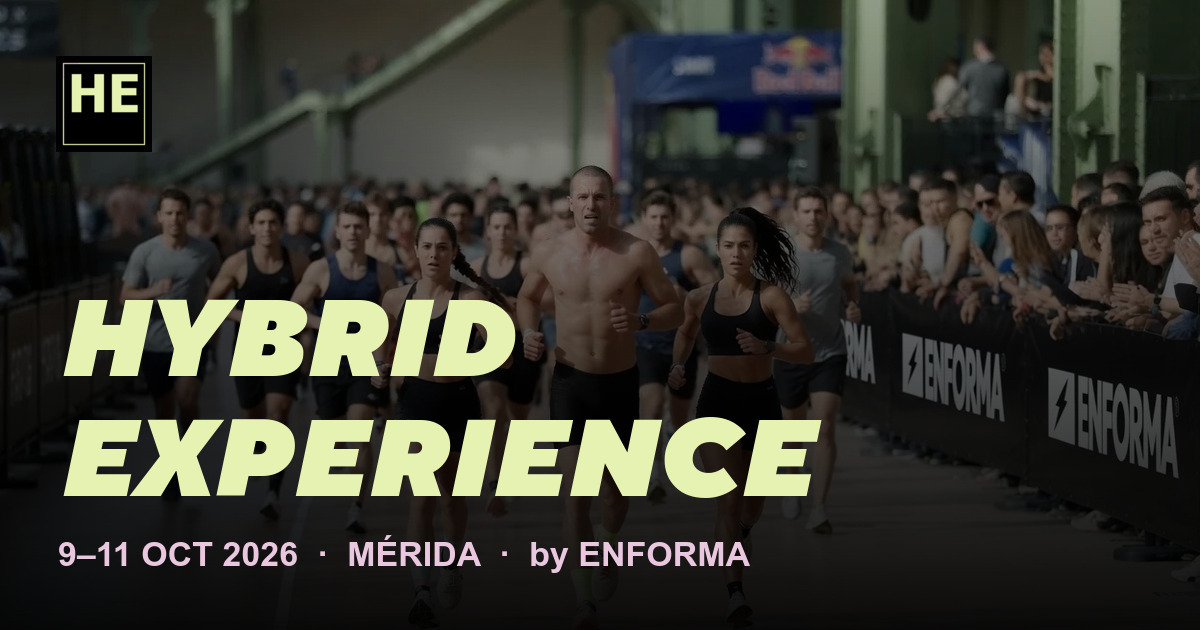
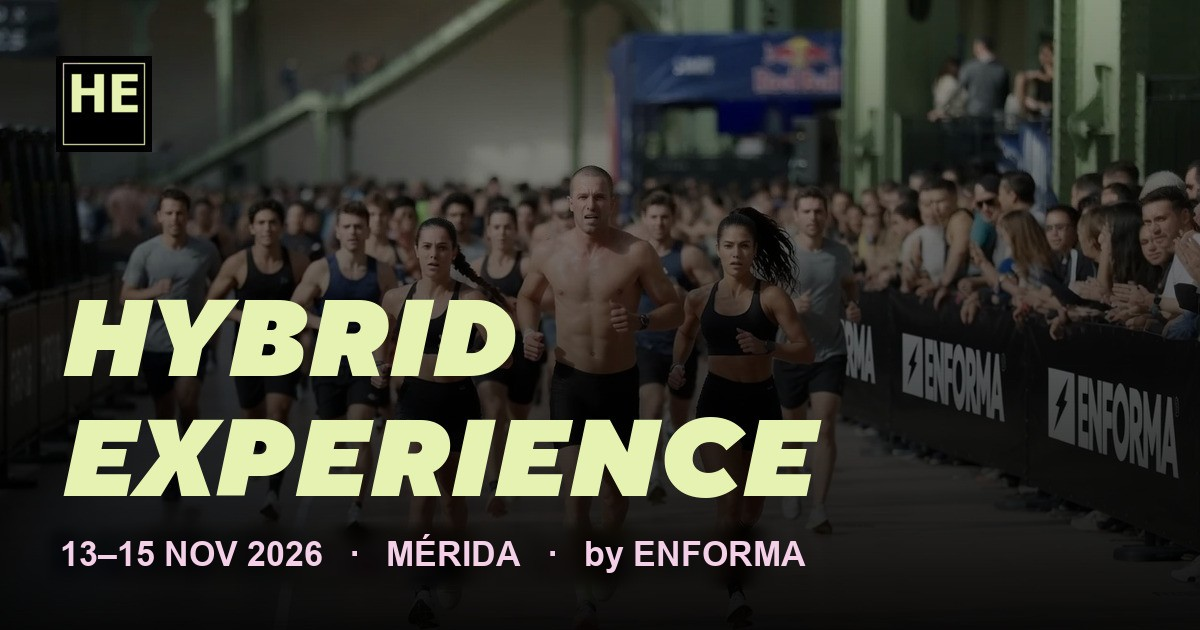
fix(og): correct event date to 13–15 NOV 2026 in social image and PWA manifest
Bust the og:image URL so WhatsApp/Facebook re-fetch the preview.

Changed region(s): [[0.0308, 0.8444, 0.6783, 0.9048]]

diff --git a/index.html b/index.html
@@ -18,14 +18,14 @@
     <meta property="og:description" content="Vive HYBRID EXPERIENCE del 13 al 15 de noviembre de 2026 en Mérida. Compite en Individual, Dobles o Relay, empieza con ½ Hybrid, o compra tu acceso como público." />
     <meta property="og:type" content="website" />
     <meta property="og:url" content="https://hybrid-experience.enforma.mx/" />
-    <meta property="og:image" content="https://hybrid-experience.enforma.mx/og/hybrid-experience-social.jpg" />
+    <meta property="og:image" content="https://hybrid-experience.enforma.mx/og/hybrid-experience-social.jpg?v=20260928" />
     <meta property="og:image:width" content="1200" />
     <meta property="og:image:height" content="630" />
     <meta property="og:image:alt" content="HYBRID EXPERIENCE 2026 by ENFORMA" />
     <meta name="twitter:card" content="summary" />
     <meta name="twitter:title" content="HYBRID EXPERIENCE 2026 en Mérida | ENFORMA Sports Society" />
     <meta name="twitter:description" content="Vive HYBRID EXPERIENCE del 13 al 15 de noviembre de 2026 en Mérida. Compite en Individual, Dobles o Relay, empieza con ½ Hybrid, o compra tu acceso como público." />
-    <meta name="twitter:image" content="https://hybrid-experience.enforma.mx/og/hybrid-experience-social.jpg" />
+    <meta name="twitter:image" content="https://hybrid-experience.enforma.mx/og/hybrid-experience-social.jpg?v=20260928" />
 
     <link rel="preconnect" href="https://fonts.googleapis.com" />
     <link rel="preconnect" href="https://fonts.gstatic.com" crossorigin />

diff --git a/vite.config.ts b/vite.config.ts
@@ -12,7 +12,7 @@ export default defineConfig({
         name: 'The Hybrid Experience',
         short_name: 'Hybrid',
         description:
-          'Vive HYBRID EXPERIENCE del 9 al 11 de octubre de 2026 en Mérida. Compite en Individual, Dobles o Relay, empieza con ½ Hybrid, o compra tu acceso como público.',
+          'Vive HYBRID EXPERIENCE del 13 al 15 de noviembre de 2026 en Mérida. Compite en Individual, Dobles o Relay, empieza con ½ Hybrid, o compra tu acceso como público.',
         lang: 'es-MX',
         start_url: '/',
         display: 'standalone',
